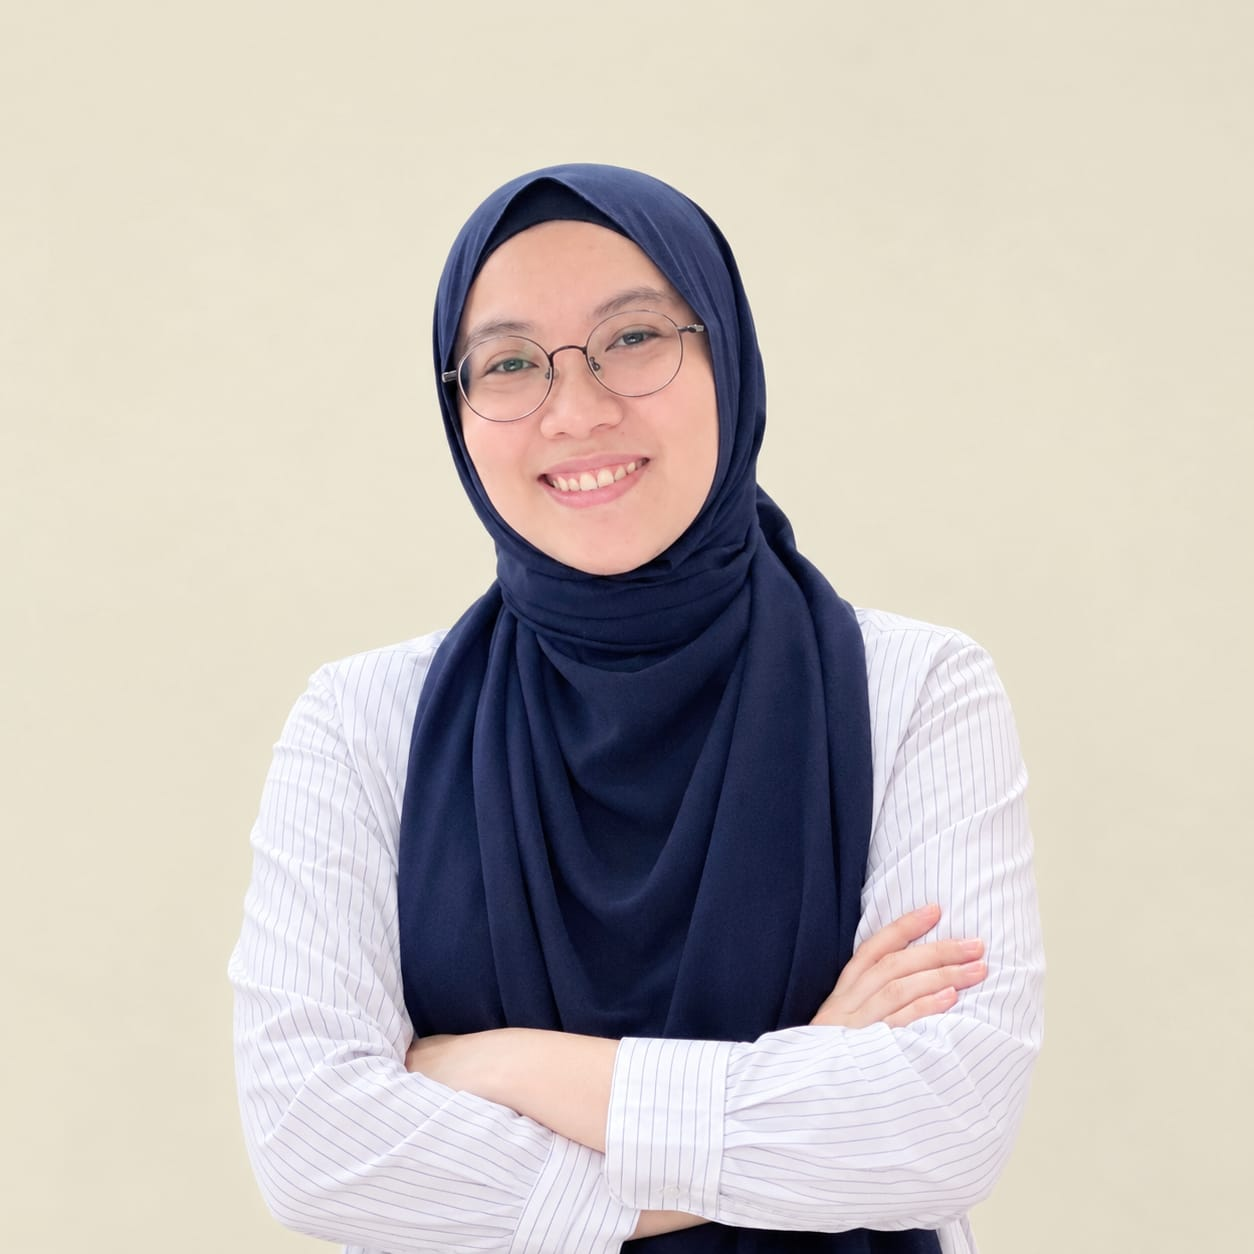
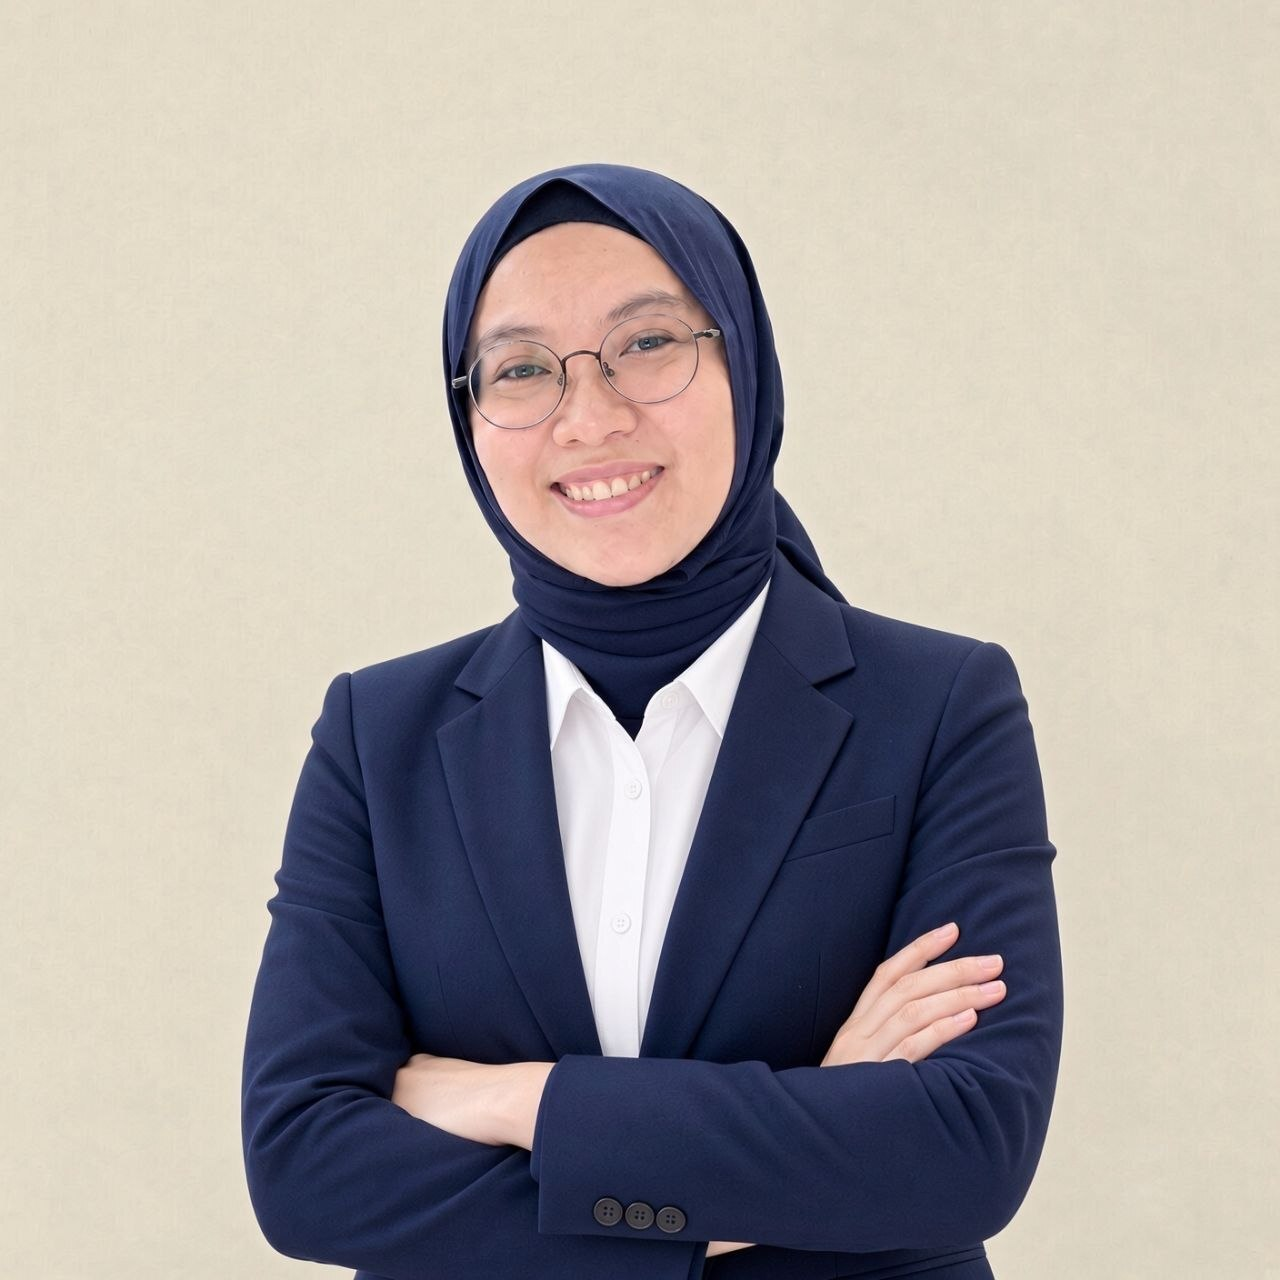
Add company address to footer and update partner list with SIRIM CALIBRATION

Changed region(s): [[0.1866, 0.1244, 0.8397, 1.0], [0.622, 0.5287, 0.6531, 0.5598], [0.4354, 0.3732, 0.4665, 0.4043]]

diff --git a/frontend/src/app/App.tsx b/frontend/src/app/App.tsx
@@ -575,6 +575,12 @@ function Footer({ go }: { go: (p: Page) => void }) {
                 </a>
               ))}
             </div>
+            <p className="text-gray-500 text-sm leading-relaxed max-w-xs" style={{ fontFamily: BODY }}>
+              SOVA Intelligence (M) Sdn Bhd<br />
+              Level 1, CoPlace 10<br />
+              Block 2330, Century Square, Jalan Usahawan,<br />
+              Off Persiaran Multimedia, 63000 CYBERJAYA.
+            </p>
           </div>
         </div>
         <div className="border-t border-[#1a1a1a] pt-6 flex flex-col md:flex-row justify-between items-center gap-2">
@@ -590,8 +596,8 @@ function Footer({ go }: { go: (p: Page) => void }) {
 // HOME PAGE
 // ══════════════════════════════════════════════════════════════
 const PARTNER_NAMES = [
-  "Zhejiang University","Graphen","SustNET","KPYPJ",
-  "Cyberjaya AI-Exchange","KUSKOP","Zhejiang Business Station","MDEC","MITI","Cyberview","UTM","UTHM",
+  "Zhejiang University","Graphen","SustNET","KUSKOP",
+  "Cyberview","UTM","UTHM","SIRIM CALIBRATION",
 ];
 
 const HOME_SERVICES = [
@@ -991,10 +997,11 @@ function AboutPage({ go }: { go: (p: Page) => void }) {
         <div className="max-w-7xl mx-auto">
           <FadeUp><Label>International Partnerships</Label></FadeUp>
           <FadeUp delay={80}><h2 className="font-black text-white mb-12 max-w-2xl" style={{ fontFamily: DISPLAY, fontSize: "calc(var(--sf) * 3.25)" }}>Building bridges between Malaysian AI and the world.</h2></FadeUp>
-          <div className="grid grid-cols-1 md:grid-cols-2 gap-6">
+          <div className="grid grid-cols-1 md:grid-cols-2 xl:grid-cols-3 gap-6">
             {[
               { partner: "Zhejiang University", country: "People's Republic of China", desc: "MOU partnership enabling joint global-to-local technology deployment. The Zhejiang Business Station ASEAN Headquarters in Johor Bahru anchors our technology transfer and applied research collaboration." },
               { partner: "Graphen & SustNET",   country: "Strategic Technology Partners", desc: "Forming strategic ties to drive technology transfer and applied AI innovation across Malaysia — spanning intelligent data platforms, sustainable infrastructure, and ecosystem activation." },
+              { partner: "SIRIM CALIBRATION", country: "Strategic Industry Collaboration", desc: "Strategic collaboration strengthening SOVA’s industrial capabilities through nationally recognised measurement and calibration expertise. The partnership connects SIRIM’s technical capabilities with SOVA’s market access, technology integration and growing industry network." },
             ].map(({ partner, country, desc }, i) => (
               <FadeUp key={partner} delay={i * 120} distance={18}>
                 <div className="bg-[#111111] border border-[#1e1e1e] rounded-xl p-8 h-full">
